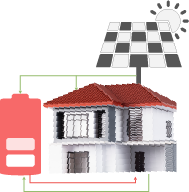
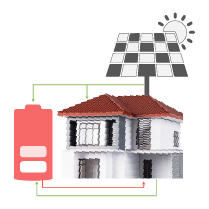
add render clipping and fixed images

diff --git a/citylearn/citylearn.py b/citylearn/citylearn.py
@@ -553,6 +553,8 @@ class CityLearnEnv(Environment, Env):
             net_electricity_consumption_obs_ix = b.active_observations.index('net_electricity_consumption')
             energy = b.net_electricity_consumption[b.time_step]/(b.observation_space.high[net_electricity_consumption_obs_ix])
             charge = b.electrical_storage.soc[b.time_step]/b.electrical_storage.capacity_history[b.time_step - 1]
+            energy = max(min(energy, 1.0), 0.0)
+            charge = max(min(energy, 1.0), 0.0)
             rbuilding = RenderBuilding(index=i, 
                                 canvas_size=canvas_size, 
                                 num_buildings=num_buildings, 
